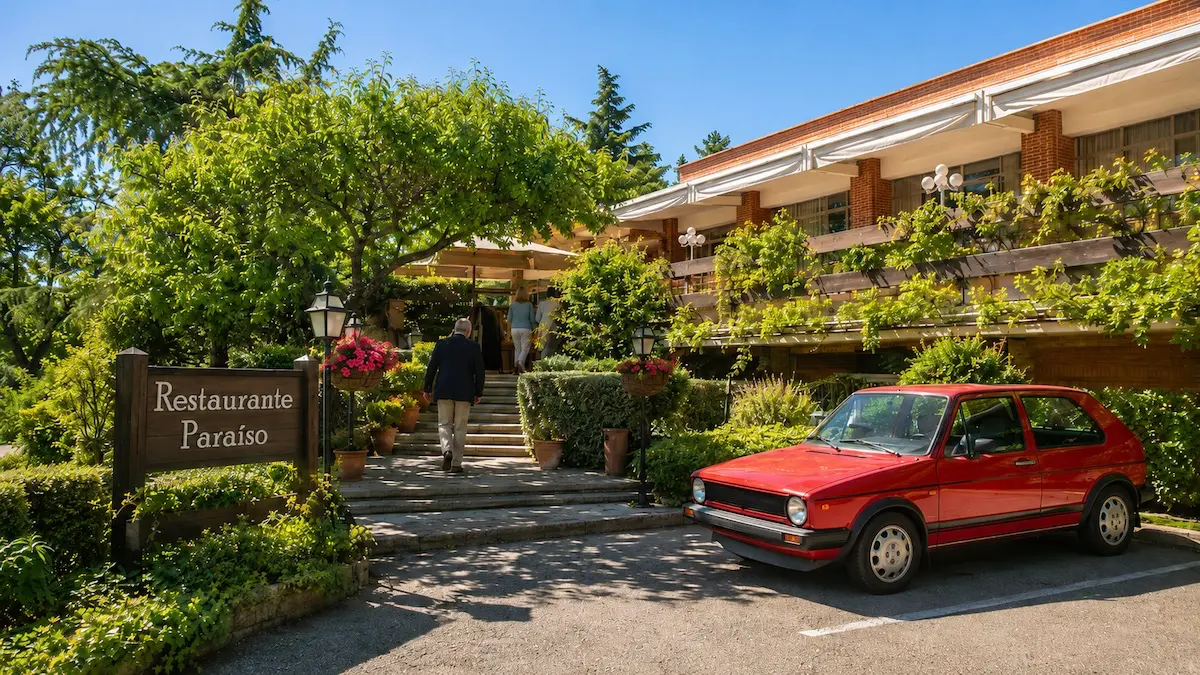
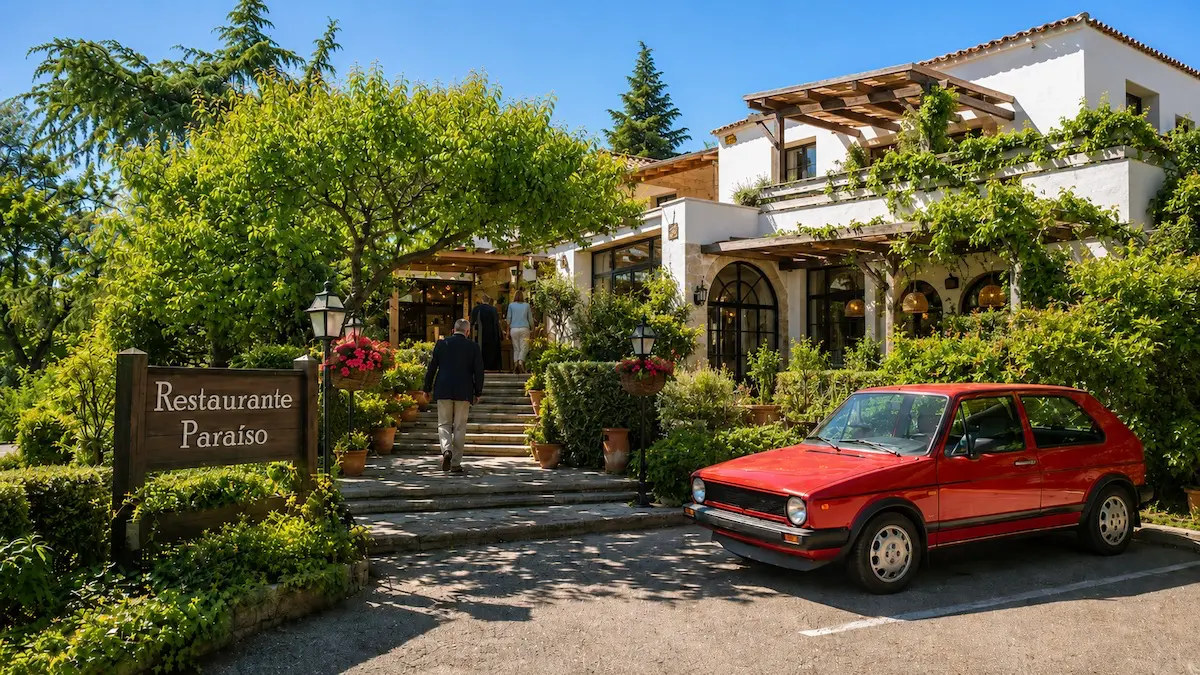
update empresario rico

diff --git a/src/content/blog/2026-05-08-empresario-rico.md b/src/content/blog/2026-05-08-empresario-rico.md
@@ -10,9 +10,9 @@ heroImage: "/assets/images/empresario-rico.webp"
 
  ![Un Golf GTI ante la puerta de un restaurante. Imagen ficticia generada con ChatGPT](/assets/images/empresario-rico.webp)
 
-**Martín**[^1] estudió Informática y a los 28 años, después de trabajar como moderador de las redes sociales de Hirsch & Escabajo[^2] ganando 1000 euros al mes, decidió dar el salto al mundo de la empresa, fundó Tecnologías Paraíso[^3] y se dedicó a la construcción de páginas web. Lo pasó mal al principio, pero poco a poco fue saliendo del atolladero. Eso ya es mucho decir. La inmensa mayoría de los que se aventuran a crear una empresa, fracasan. Pero con Martín se produjo el milagro.
+**Martín**[^1] estudió Informática y a los 28 años, después de trabajar como moderador de las redes sociales de Hirsch & Escarabajo[^2] ganando 1000 euros al mes, decidió dar el salto al mundo de la empresa, fundó Tecnologías Paraíso[^3] y se dedicó a la construcción de páginas web. Lo pasó mal al principio, pero poco a poco fue saliendo del atolladero. Eso ya es mucho decir. La inmensa mayoría de los que se aventuran a crear una empresa, fracasan. Pero con Martín se produjo el milagro.
 
-Al cabo de unos años, Martín amplió el negocio. Ofreció servicios informáticos en la nube y de seguridad cibernética. Contraró a más personal. Hace dos años, Tecnologías Paraíso entró en el negocio de la inteligencia artificial (IA). Una de las ramas más pujantes que toca es la instalación de agentes de IA en las empresas que se lo solicitan. Sigue triunfando. Emplea ya a mil personas con nóminas competitivas.
+Al cabo de unos años, Martín amplió el negocio. Ofreció servicios informáticos en la nube y de seguridad cibernética. Contrató a más personal. Hace dos años, Tecnologías Paraíso entró en el negocio de la inteligencia artificial (IA). Una de las ramas más pujantes que toca es la instalación de agentes de IA en las empresas que se lo solicitan. Sigue triunfando. Emplea ya a mil personas con nóminas competitivas.
  
 Martín es multimillonario desde hace diez años. Pero vive en la misma casa en que residía y con el mismo Golf rojo GTI de cuando trabajaba de moderador de redes sociales en Hirsch & Escabajo. Le gusta la velocidad, pero es sobrio hasta decir basta consigo mismo y da todo el dinero que le sobra a Cáritas.
 
@@ -20,17 +20,17 @@ Martín es católico y va a misa los domingos. La gente en su parroquia lo criti
 
 Lotrives conoce Martín y su mera evocación le trae a la mente que el criterio para determinar si un hombre es o no egoísta viene dado sobre todo por la finalidad que persiga y el destino de sus ganancias.
 
-«¿Necesita España, necesita el mundo, muchas personas como Martín?», se pregunta Lotrives. Contesta: «Sí. Porque como Martín, además de su afán legítimo por obtener ingresos, crean ocupación y con ello mejora la situación general del país. Aun suponiendo que un empresario obrara solo por ambición, los efectos colaterales positivos que produce dan a alas a la economía».
+«¿Necesita España, necesita el mundo, muchas personas como Martín?», se pregunta Lotrives. Contesta: «Sí. Porque como Martín, además de su afán legítimo por obtener ingresos, crean ocupación y con ello mejoran la situación general del país. Aun suponiendo que un empresario obrara solo por ambición, los efectos colaterales positivos que produce dan a alas a la economía».
 
 Recientemente, Lotrives almorzó con Martín en el restaurante Paraíso. No son propiamente amigos, pero sí hay cierta relación entre ellos. Se produjo este diálogo:
 
 —[Lotrives] Martín, ¿qué te mueve en la vida?
 
-—[Martín] Ganar dinero e ir al cielo. ¿Qué te parece? Y como en el Evangelio, Jesucristo no lo pone fácil a los ricos, trato de esforzarme en el ejercicio de la virtud. 
+—[Martín] Ganar dinero e ir al cielo. ¿Qué te parece? Y como en el Evangelio, Jesucristo no lo pone fácil a los ricos, trato de esforzarme en el ejercicio de la caridad. 
 
 —[Lotrives] ¿Cómo?
 
-—[Martín] Ayudo a las Hijas de la Caridad de San Vicente de Paúl. Los sábados, voy a uno de sus centros y trabajo como voluntario con discapacitados intelectuales graves. Unas semanas los saco de excursión a la montaña y almorzamos en un McDonald’s, su preferido. Otras, nos marchamos a un *spa*. Con según qué grupos, jugamos a los bolos o nos vamos al cine.
+—[Martín] Ayudo a las Hijas de San Vicente de Paúl. Los sábados, voy a uno de sus centros y trabajo como voluntario con discapacitados intelectuales graves. Unas semanas los saco de excursión a la montaña y almorzamos en un McDonald’s, su preferido. Otras, nos marchamos a un *spa*. Con según qué grupos, jugamos a los bolos o vemos una película en el cine.
 
 —[Lotrives] Suena algo mecánico: tarea de los sábados. Cumplimiento. Obligación. ¿No consideras que la riqueza pueda deformar tu mirada: hacerte duro, autosuficiente e incapaz de ver el sufrimiento cercano?
 
@@ -52,7 +52,7 @@ Recientemente, Lotrives almorzó con Martín en el restaurante Paraíso. No son 
 
 —[Martín] Lo intento, con mi vida. Pero soy malo escribiendo, publicando, hablando e influyendo socialmente. Otros tendrán que trabajar en esos campos. 
 
-—[Lotrives] ¿Qué tal te sigue funcionando el Golf GTI?
+—[Lotrives] ¿Qué tal tu Golf GTI?
 
 —[Martín] Bien. Pero empiezo a encontrar tantas trabas legales que no me quedará más remedio que cambiar a uno eléctrico en breve. Será chino. Quizás un BYD.
 